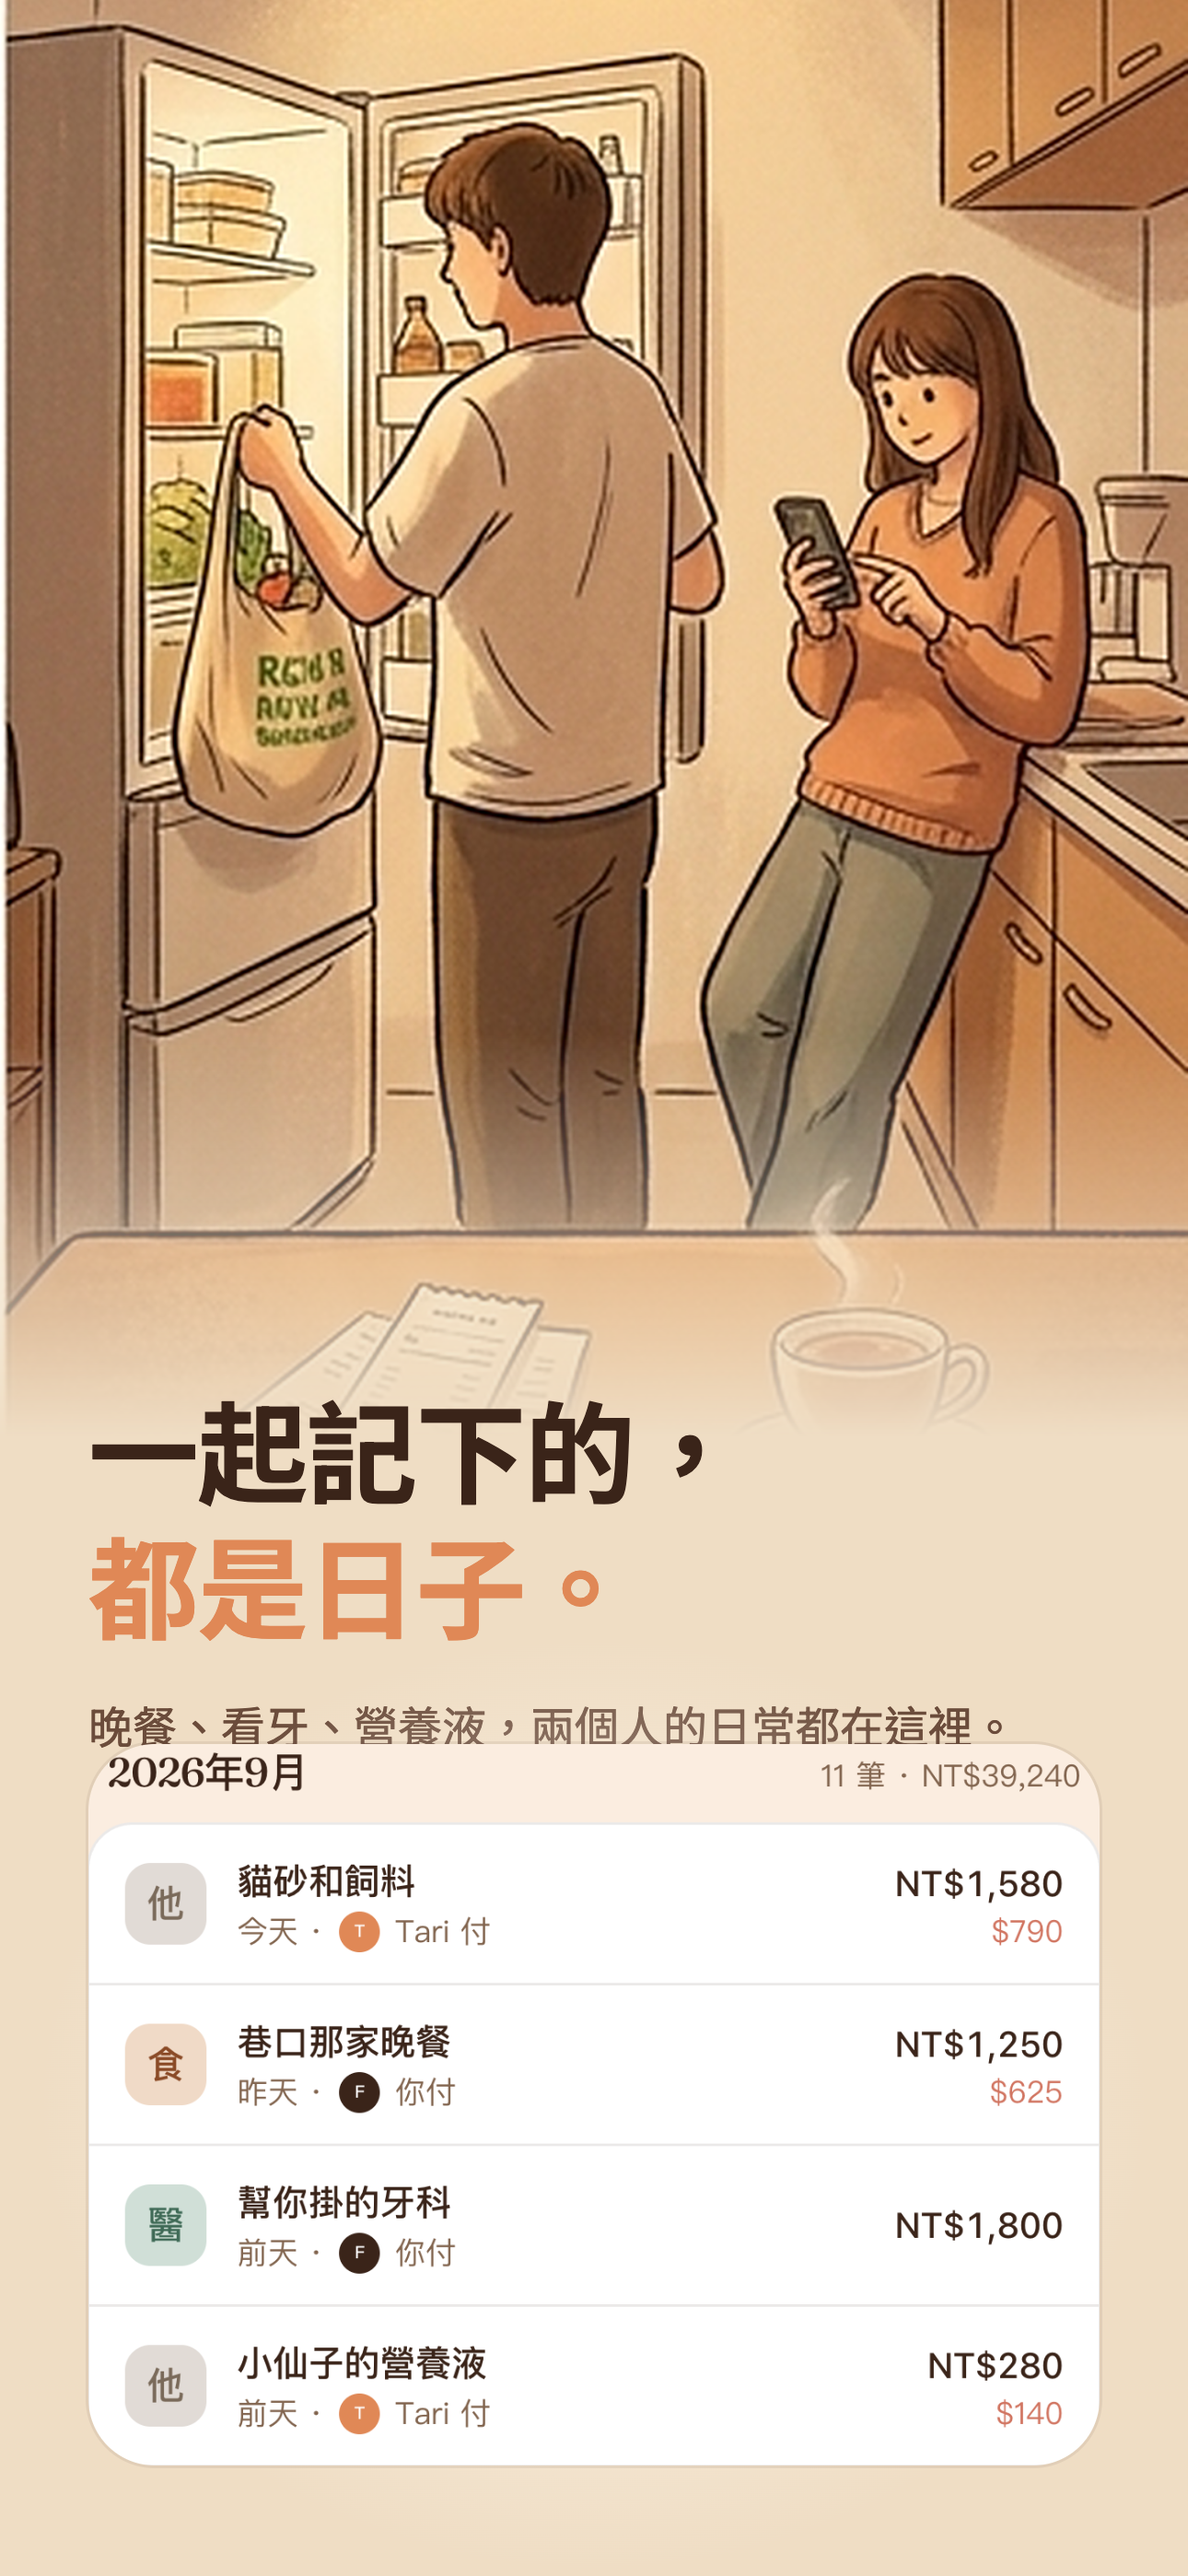
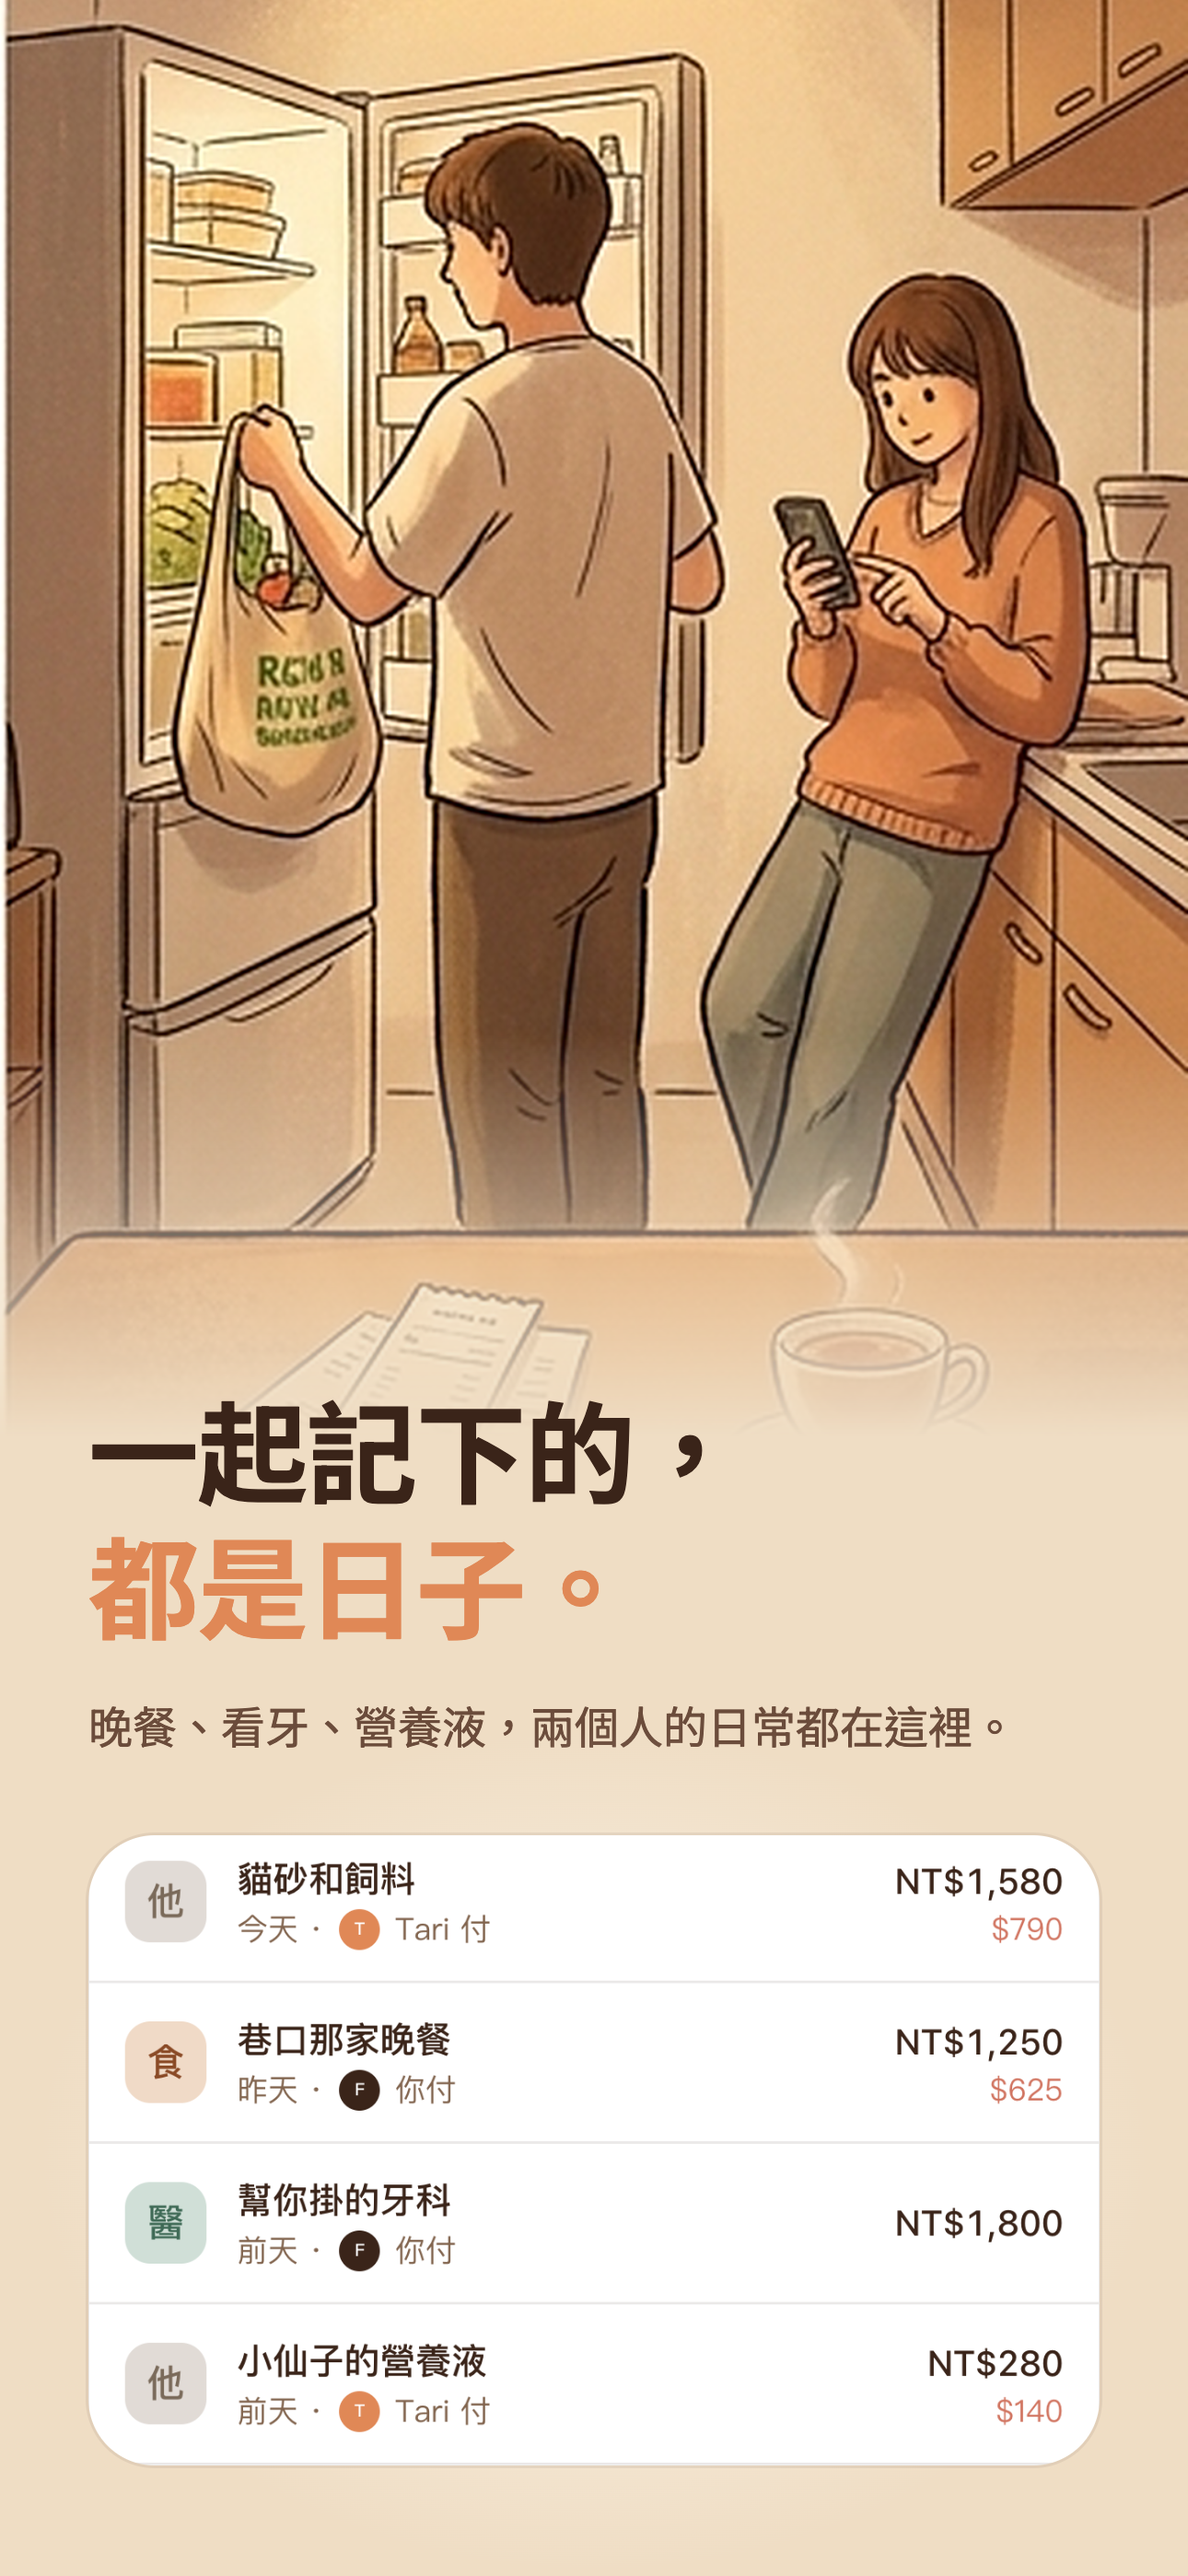
fix(store): review 後的修正——上傳腳本的破壞性路徑加護欄、文件對齊實況
ASC 上傳腳本（都還沒跑過 --apply）：
- 檔案清單為空時**跳過而不刪除**。原本會把該尺寸的線上截圖清光、一張都沒補上，而且回報成功；
  story/ 還沒 render、檔名慣例改了、或在別的 worktree 跑都會踩到
- PNG 尺寸改成真的驗（讀 IHDR）。原本 expect 欄位從沒被讀取，尺寸錯誤要等 Apple 非同步驗證才發現，
  那時舊圖已經刪了
- dry-run 也印出「將刪除」清單。這支的理由就是「商店上掛的跟你以為的不一樣」，預覽卻不顯示破壞性的那一半
- JWT 改成每次請求現簽。單一 15 分鐘 token 可能在多張 PNG 上傳途中過期，而過期點若落在
  「刪完舊圖、還沒傳完新圖」之間，商店會停在少圖或無圖
- 版本查詢加 filter[platform]=IOS，且有多個可編輯版本時中止而不是猜一個
- 檔名語言不再寫死 zh：跟著 ASC locale 推導，之後加語系不會把中文圖傳去日文商店

截圖腳本：
- --connect 補上示範帳本檢查。它拿掉了「一定是專用 profile」這個保證，指到日常 Chrome 就會把
  真實帳本渲染進公開 repo 與商店頁，而失效的樣子是截圖完全正常、只是內容是別人的生活。
  實測有效：跑在沒有 #1328 遮蔽程式的分支上會擋下，跑在有的分支上放行

文件：
- README 的「已知瑕疵」段落已不符實況（repo 那批早就重截乾淨）。改成分開陳述 repo 與商店兩個狀態，
  並點명 Play 與 App Store 上仍是帶真人頭像與姓名的舊圖，換掉它是還沒做的事
- 補上 asc-screenshots.mjs 的用法與它的三道守門；原本 README 只寫到「待上傳」，沒有路徑通往「已上傳」
- frontmatter last_updated 補成 2026-09-20
- store-screens.html 的裁切註解不再宣稱來源仍有 dev 浮標

版面：第 3 張的副標與截圖卡片重疊，裁切改從月份摘要列下方開始

diff --git a/scripts/og/store-screens.html b/scripts/og/store-screens.html
@@ -158,13 +158,15 @@
     const SHOTS = '../../docs/store-assets/screenshots/'
     const SHOT_W = 1290 // source screenshots are iPhone 6.7" 1290×2796
 
-    /* crop: [x0, y0, x1, y1] in source pixels. Crops avoid the bottom nav,
-     * which still carries the dev-overlay "N" badge in the 2026-08 batch. */
+    /* crop: [x0, y0, x1, y1] in source pixels. Crops stay clear of the bottom
+     * nav — originally because the 2026-08 sources carried a dev-overlay "N"
+     * badge there (the 2026-09-20 re-capture no longer does), and still
+     * because a cropped nav bar reads as a broken screenshot. */
     const frames = {
       1: { scene: '../../public/illustration-hero.png', hero: true },
       2: { shot: '01-dashboard-ios-6.7.png', crop: [0, 500, 1290, 1010],
            scene: '../../docs/store-assets/illustrations/story-2.png', pos: '50% 60%', brief: '巷口那家晚餐。兩人並肩坐在麵店吧台，一人拿手機結帳，另一人看著笑。頭頂一顆燈泡的暖光，窗外是雨後的巷子。' },
-      3: { shot: '01-dashboard-ios-6.7.png', crop: [50, 1180, 1240, 2030],
+      3: { shot: '01-dashboard-ios-6.7.png', crop: [50, 1290, 1240, 2030],
            scene: '../../docs/store-assets/illustrations/story-3.png', pos: '50% 55%', brief: '晚上的廚房。一人把超市袋子的東西收進冰箱，另一人靠在流理台邊用手機記一筆。桌上放著收據和一杯熱茶。' },
       4: { shot: '04-assets-ios-6.7.png', crop: [50, 1440, 1240, 2230],
            scene: '../../docs/store-assets/illustrations/story-4.png', pos: '40% 18%', brief: '傍晚的客廳。窗台上一盆小仙子（多肉），柴犬麻糬趴在沙發腳邊，兩人的腳擱在同一張小凳上。斜斜的夕陽光。' },

diff --git a/docs/store-assets/README.md b/docs/store-assets/README.md
@@ -1,5 +1,5 @@
 ---
-last_updated: 2026-08-06
+last_updated: 2026-09-20
 ---
 
 # Store assets — Futari
@@ -66,11 +66,13 @@ node capture-screens.mjs --only=ipad-13   # 只補某一組
 dev 帳本截的，且 `SCREENS` 裡的 trip UUID 是寫死的 —— 資料漂移後重跑不保證截得一樣。
 補新尺寸時請用 `--only`。
 
-> **已知瑕疵（2026-08-27 發現）**：2026-08 那批 12 張左下角有 Next.js dev overlay 的
-> 黑色「N」浮標，`*-play.png` 裡它直接壓住「首頁」tab 圖示。截圖腳本現在會用 CSS
-> 蓋掉 `nextjs-portal`（iPad 這組已乾淨），但**已上傳到 Play 的那批沒有重截**。
-> 追蹤：重截 play / tablet / ios-6.7 需要先把 dev 帳本的日期往前推，否則畫面會顯示
-> 「20 天前」而不是「今天」。
+> **repo 與商店是兩個狀態，別把前者當後者。**
+> repo 裡的 16 張已於 2026-09-20 全部重截：沒有 dev overlay 的「N」浮標、頭像是首字圓圈、
+> 名稱是示範名（見下方「截圖前的帳本準備」）。
+>
+> **但已上傳到 Play 的那批還是 2026-08 的舊圖**——左下角有「N」浮標，而且帶著真人頭像與真實姓名。
+> 換掉它需要到 Play Console 重新上傳，這件事還沒做。App Store 那批同樣是舊圖，換圖要先有一個
+> 可編輯的版本（見下方「上傳到 App Store Connect」）。
 
 四個畫面照敘事順序：餘額一覽 → 紀錄與分攤 → 旅行帳本（內頁）→ 愛物。
 
@@ -147,6 +149,18 @@ node capture-screens.mjs --login                            # 或用自己的專
 ```
 
 `--connect` 接受任何 CDP endpoint（例如 superpowers-chrome 起的那個）。`deviceScaleFactor` 由 CDP 覆寫，所以輸出像素不受實體螢幕 DPI 影響。
+
+**上傳到 App Store Connect**
+
+```bash
+cd scripts/og
+node asc-screenshots.mjs            # dry-run：印出會刪什麼、傳什麼，不動 ASC
+node asc-screenshots.mjs --apply    # 真的換圖
+```
+
+`--apply` 會**先刪掉該 display type 的既有截圖再上傳**，所以它同時檢查三件事才動手：ASC 上必須有
+唯一一個 `PREPARE_FOR_SUBMISSION` 版本（`READY_FOR_SALE` 改不動截圖）、`story/` 裡要有對應檔案
+（空清單時跳過而不是把線上截圖清光）、每張 PNG 的實際尺寸要符合該 display type。
 
 **截圖前的帳本準備**（2026-09-20 實作）：
 - dev 兩位 profile 設 `avatar_hidden = true`（#1328 的欄位），頭像變成首字圓圈，不會出現真人照片
